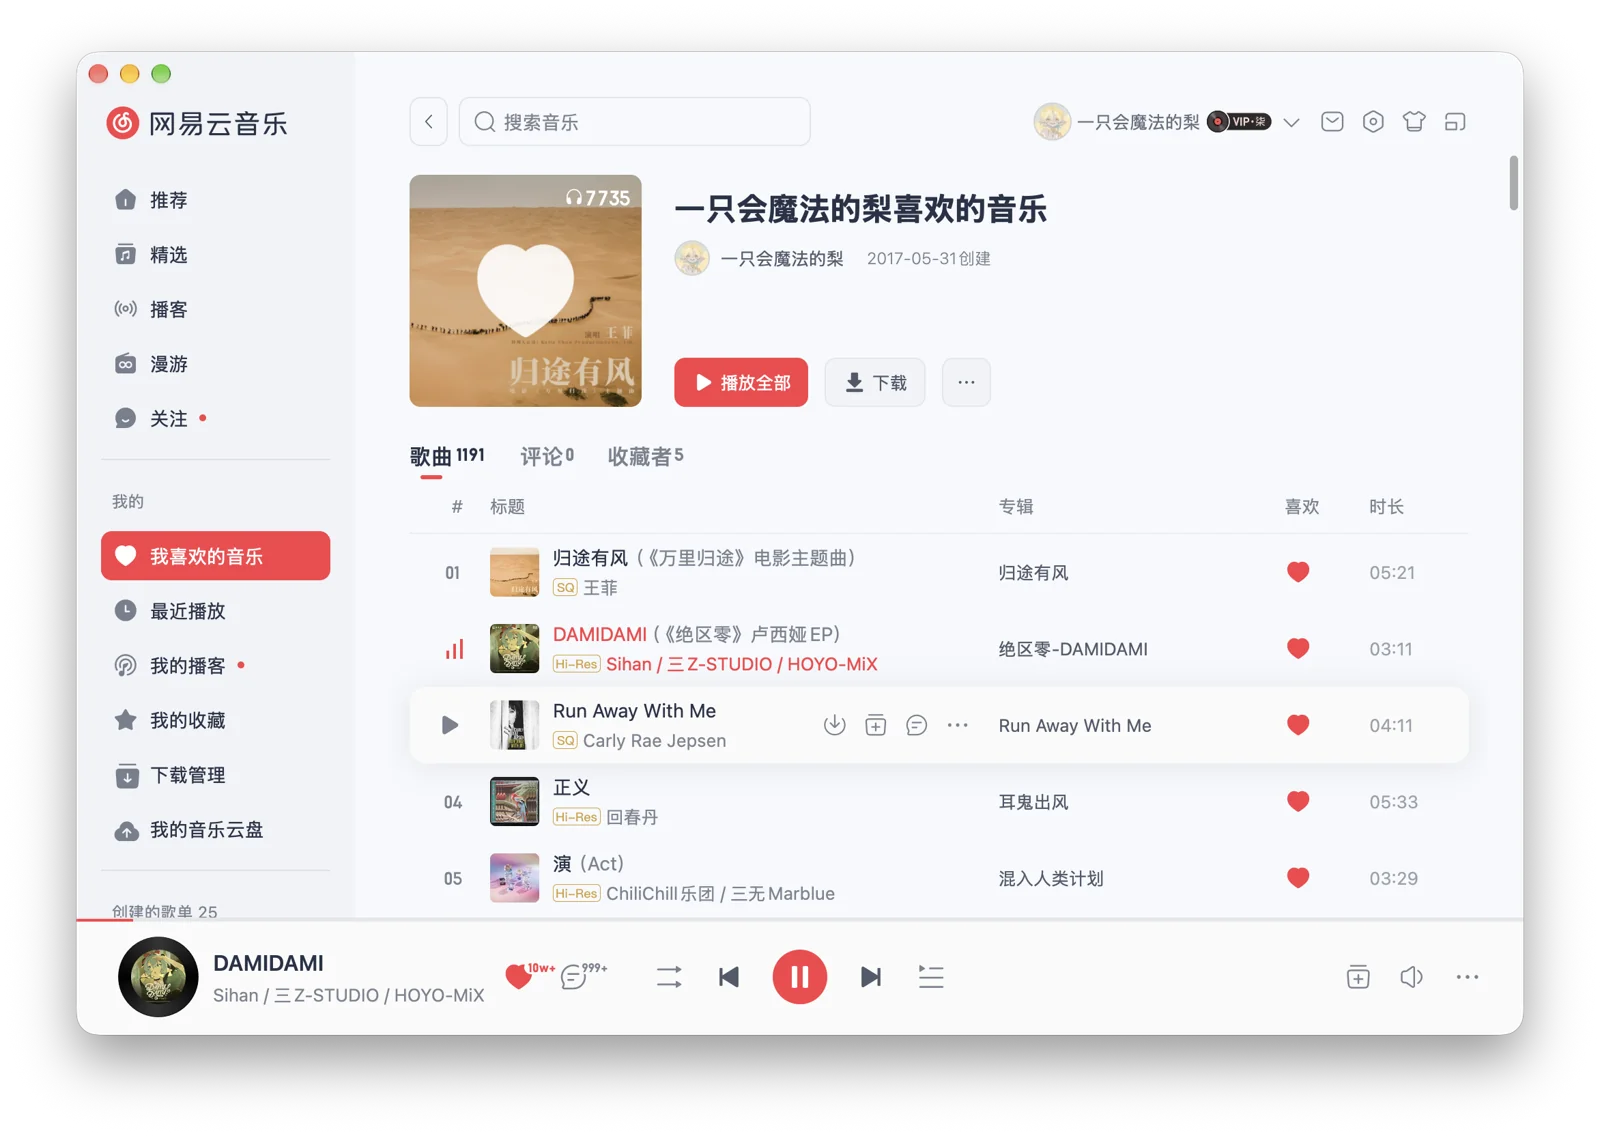
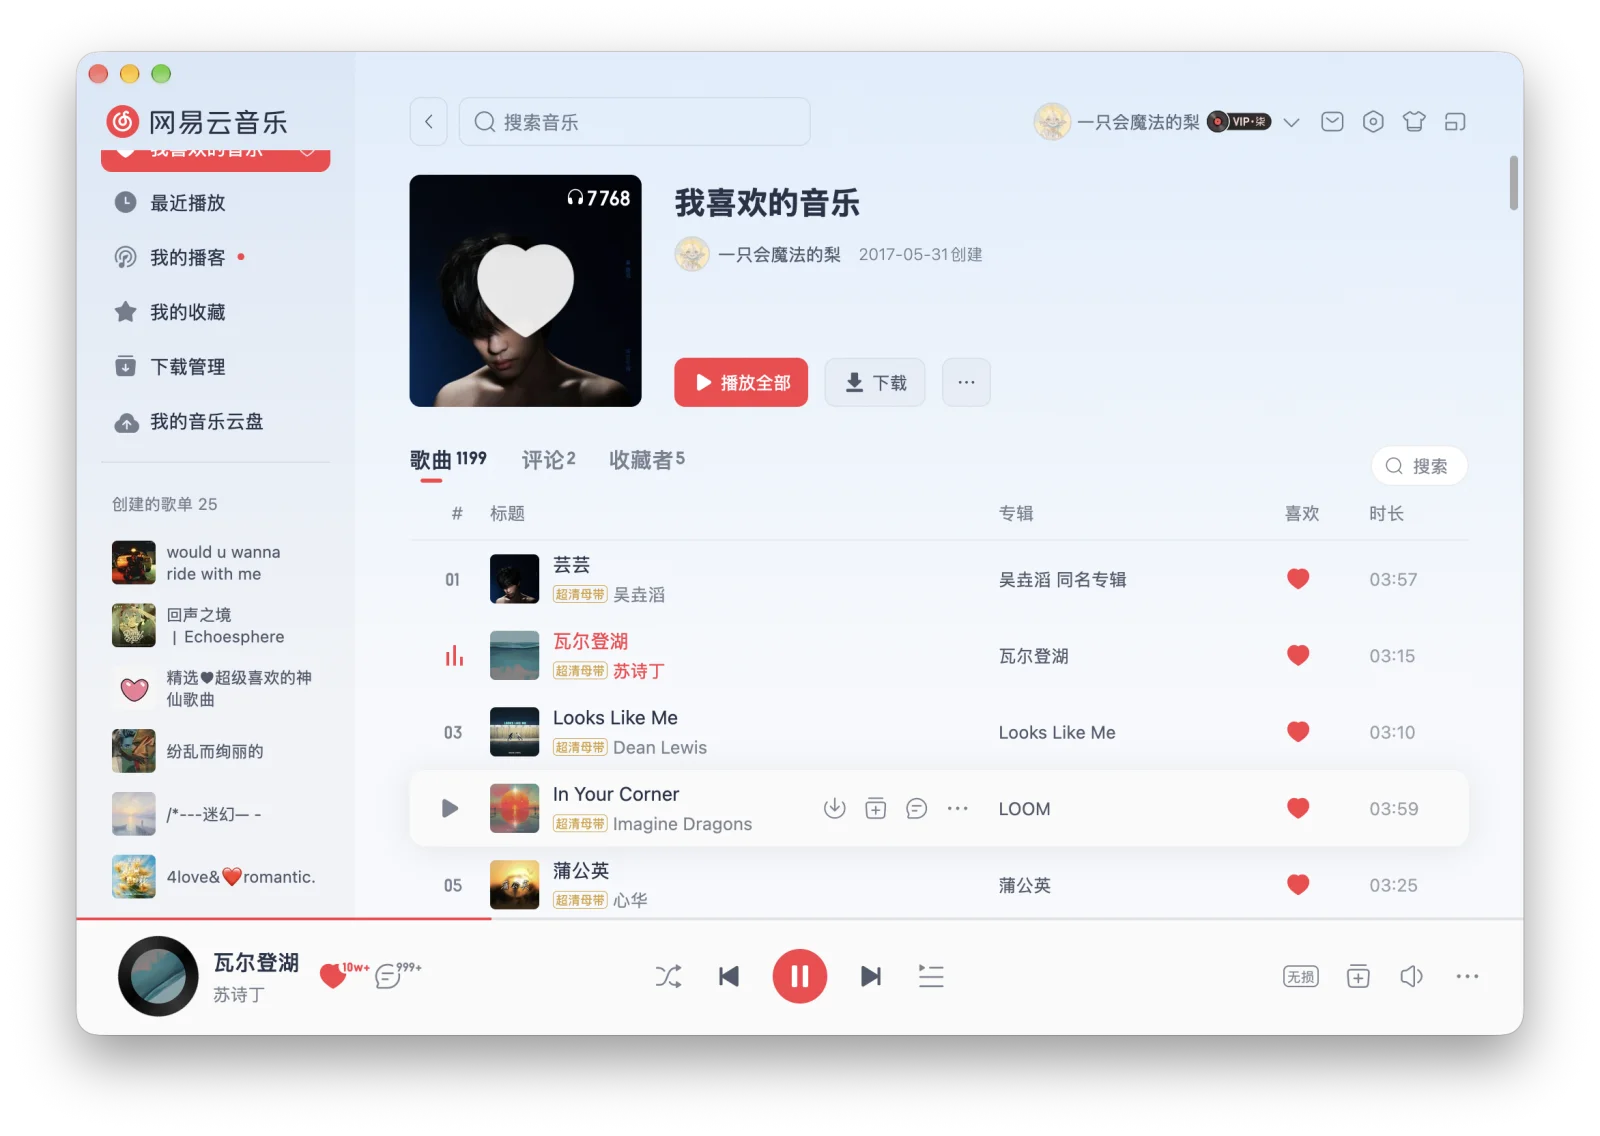
优化细节及替换图片

diff --git a/src/app.scss b/src/app.scss
@@ -93,19 +93,24 @@ section[id] { scroll-margin-top: 110px; }
   .title-first { display: flex; align-items: center; gap: 20px; }
   .title-first i { color: #e44030; font: normal .8em Arial, sans-serif; }
   .title-second { display: block; margin-top: 12px; font-size: .68em; letter-spacing: 0; white-space: nowrap; }
-  .title-outline { color: transparent; -webkit-text-stroke: 1.5px #262622; }
+  .title-outline { position: relative; display: inline-block; color: transparent; -webkit-text-stroke: 1.5px #262622; }
+  .title-compass { position: absolute; width: 150%; height: 180%; left: -25%; top: -45%; overflow: visible; pointer-events: none; stroke: #262622; stroke-width: 1.3; stroke-linecap: round; stroke-linejoin: round; }
+  .compass-arc { stroke: #e44030; stroke-dasharray: 100; animation: compass-draw 1.8s ease-out both; }
+  .compass-tool { transform-origin: 126px 16px; animation: compass-turn 1.8s ease-out both; }
   .hero-intro { margin-top: 35px; color: #50544f; font-size: 16px; line-height: 1.95; }
   .hero-actions { display: flex; flex-wrap: wrap; gap: 12px; margin-top: 27px; }
 
 }
+@keyframes compass-draw { from { stroke-dashoffset: 100; } to { stroke-dashoffset: 0; } }
+@keyframes compass-turn { from { transform: rotate(-18deg); opacity: 0; } to { transform: rotate(0); opacity: 1; } }
 .play-strip { display: flex; align-items: center; justify-content: space-around; gap: 30px; padding: 19px 30px; background: #244ad5; color: #fff; font-size: clamp(15px, 1.8vw, 23px); transform: skewY(-2deg); margin: 15px 0 65px; overflow: hidden; }
 .play-strip span, .play-strip i { flex-shrink: 0; }
 .play-strip i { font-style: normal; color: #f1c731; font-size: 28px; transition: transform .3s; }
 .play-strip:hover i { transform: rotate(90deg); }
-.geometry-section { display: grid; grid-template-columns: .9fr 1fr; align-items: center; gap: 80px; padding: 35px 0 100px; }
+.geometry-section { display: grid; grid-template-columns: .9fr 1fr; align-items: center; gap: 80px; padding: 60px 0 120px; border-top: 1px solid var(--line); }
 .geometry-copy h2 { font-size: clamp(38px, 4.6vw, 62px); line-height: 1.3; font-weight: 750; }
 .geometry-copy p { margin-top: 25px; color: var(--muted); font-size: 15px; line-height: 1.9; }
-.geometry-flower { display: block; width: fit-content; margin: 25px 0 0 20%; color: #e44030; font: 130px Arial, sans-serif; transition: transform .6s; }
+.geometry-flower { display: block; width: fit-content; margin: 35px 0 0 20%; color: #e44030; font: 130px Arial, sans-serif; transition: transform .6s; }
 .geometry-flower:hover { transform: rotate(180deg); }
 .button {
   display: inline-flex;
@@ -131,42 +136,54 @@ section[id] { scroll-margin-top: 110px; }
   > p { margin-top: 18px; color: var(--muted); font-size: 15px; line-height: 1.9; }
   &.centered { text-align: center; margin-bottom: 56px; }
 }
-.works { padding-top: 30px; padding-bottom: 100px; }
+.works { padding-top: 42px; padding-bottom: 120px; }
 .works-heading { display: flex; align-items: end; justify-content: space-between; gap: 30px; }
-.works-heading h2 { font-size: clamp(38px, 4.6vw, 62px); line-height: 1.15; font-weight: 750; }
-.works-heading > p { max-width: 300px; padding-bottom: 6px; }
+.works-heading h2 { font-size: 60px; line-height: 1.2; font-weight: 750; }
+.works-heading > p { max-width: 300px; padding: 0 0 6px 20px; border-left: 3px solid #e44030; }
 
-.feature-grid { display: grid; grid-template-columns: 1.15fr .85fr; align-items: start; gap: 42px; }
+.feature-grid { display: grid; grid-template-columns: 1fr 1fr; align-items: stretch; gap: 24px; }
 .feature-card {
   display: flex;
   flex-direction: column;
   min-width: 0;
   overflow: hidden;
-  border: 1px solid var(--line);
+  border: 0;
   background: var(--panel);
-  transition: box-shadow .25s;
-  &:hover { box-shadow: 8px 8px 0 #262622; }
+  transition: background .25s;
   &.music-feature {
     grid-column: 1 / -1;
     display: grid;
-    grid-template-columns: .85fr 1.15fr;
+    grid-template-columns: .8fr 1.2fr;
     align-items: center;
     background: #f1c731;
-    .card-copy { padding: 40px 44px 32px; }
-    .card-visual { margin: 35px 0 35px 10px; }
+    .card-copy { padding: 48px; }
+    .card-visual { margin: 32px 32px 32px 0; }
     .card-description { max-width: 640px; }
   }
   .card-copy { position: relative; padding: 34px 34px 30px; }
   h3 { display: flex; align-items: baseline; flex-wrap: wrap; gap: 8px 16px; margin-top: 12px; font-size: 27px; line-height: 1.5; }
-  h3 > span { color: #7d7268; font-size: 15px; font-weight: 400; }
+  h3 > span { color: #535d58; font-size: 15px; font-weight: 400; }
   .card-description { margin-top: 13px; color: #62625b; font-size: 14px; line-height: 1.85; }
   .card-link { margin-top: 21px; }
   .card-visual { margin: auto 24px 0; overflow: hidden; }
   img { display: block; width: 100%; aspect-ratio: 1.6; object-fit: cover; transition: transform .3s; }
   &:hover img { transform: translate(var(--mx, 0px), var(--my, 0px)) scale(1.045); }
 }
-.agent-feature { transform: rotate(-2deg); background: #e2e8f7; }
-.launcher-feature { margin-top: 90px; transform: rotate(2deg); background: #e3e8d4; }
+.agent-feature { background: #dce6e0; }
+.launcher-feature { background: #dce5f5; }
+.feature-card.agent-feature, .feature-card.launcher-feature {
+  grid-column: 1 / -1;
+  display: grid;
+  grid-template-columns: .8fr 1.2fr;
+  align-items: center;
+  .card-copy { padding: 48px; }
+  .card-visual { min-width: 0; margin: 32px 32px 32px 0; }
+}
+.feature-card.launcher-feature {
+  grid-template-columns: 1.2fr .8fr;
+  .card-copy { order: 1; }
+  .card-visual { margin: 32px 0 32px 32px; }
+}
 // The project illustrations are decorative; the surrounding card is the only link.
 .music-feature {
   .card-visual {
@@ -197,14 +214,15 @@ section[id] { scroll-margin-top: 110px; }
 .music-feature:hover .vinyl { transform: rotate(130deg); }
 .launcher-feature .card-visual {
   position: relative;
-  padding: 32px 12px 0;
-  background: #cad8cc;
-  > img { aspect-ratio: 1.6; object-fit: cover; object-position: top;  }
+  padding: 20px;
+  background: #b9cfee;
+  > img { aspect-ratio: auto; object-fit: contain; box-shadow: 0 12px 28px rgb(31 74 133 / 15%); }
 }
+.launcher-feature:hover img { transform: none; }
 .agent-art {
   aspect-ratio: 1.6;
   padding: 22px 18px 0;
-  background: #ded1b8;
+  background: #b9cec5;
   font-family: "Alimama Fangyuan", sans-serif;
   .workspace-bar { display: flex; align-items: center; gap: 8px; padding: 12px 15px; background: #ede5d7; font-size: 13px; border-bottom: 1px solid #d8cdbb; }
   .workspace-mark { font: 20px Georgia, serif; color: #a35b42; }
@@ -239,20 +257,20 @@ section[id] { scroll-margin-top: 110px; }
 
 .content-label { color: #56564f; font-size: 12px; line-height: 1.6; }
 .card-link { display: inline-flex; align-items: center; gap: 14px; color: #244ad5; font-size: 13px; line-height: 1.5; }
-.systems { padding-bottom: 100px; }
-.experiment-grid { display: grid; grid-template-columns: 1fr 1.12fr .9fr; align-items: start; gap: 25px; }
-.experiment:nth-child(2) { margin-top: 50px; }
-.experiment:nth-child(3) { margin-top: 105px; }
+.systems { padding: 60px 0 120px; border-top: 1px solid var(--line); }
+.experiment-grid { display: grid; grid-template-columns: repeat(3, minmax(0, 1fr)); align-items: start; gap: 28px; }
+.experiment:nth-child(2) { margin-top: 55px; }
+.experiment:nth-child(3) { margin-top: 110px; }
 .experiment {
   display: block;
   overflow: hidden;
-  border: 1px solid var(--line);
-  background: #faf8ed;
-  transition: background .2s, border-color .2s;
-  &:hover { background: #f2e9dc; border-color: rgb(45 43 47 / 22%); }
+  border-top: 2px solid #262622;
+  background: transparent;
+  transition: border-color .2s;
+  &:hover { border-color: #e44030; }
   h3 { display: flex; align-items: center; justify-content: space-between; gap: 16px; margin-top: 15px; font-size: 23px; }
   h3 span { color: #886758; font-size: 19px; }
-  .experiment-copy { padding: 25px; }
+  .experiment-copy { padding: 22px 0 0; }
   .experiment-image { display: block; width: 100%; aspect-ratio: 1.65; object-fit: cover; transition: transform .3s; }
   &:hover .experiment-image { transform: translate(var(--mx, 0px), var(--my, 0px)) scale(1.06); }
   &:hover h3 span { transform: rotate(45deg); }
@@ -263,7 +281,7 @@ section[id] { scroll-margin-top: 110px; }
   display: grid;
   grid-template-columns: .8fr 1.2fr;
   align-items: stretch;
-  background: #faf8ed;
+  background: #e2ece7;
   .about-profile { position: relative; overflow: hidden; padding: 52px 46px 100px; background: #244ad5; color: #fff; }
   .portrait-frame { position: relative; width: min(240px, 100%); margin-bottom: 30px; padding: 12px; background: #f1eedf; }
   .portrait-frame::after { content: ""; position: absolute; width: 65px; height: 18px; background: #e44030; top: -9px; right: -16px; }
@@ -297,17 +315,16 @@ section[id] { scroll-margin-top: 110px; }
   dt { color: #62625b; }
   dd { color: #262622; margin: 0; }
 }
-.notes { display: grid; grid-template-columns: .8fr 1.2fr; align-items: center; gap: 55px; padding-top: 100px; padding-bottom: 65px; }
+.notes { display: grid; grid-template-columns: .8fr 1.2fr; align-items: center; gap: 55px; padding-top: 120px; padding-bottom: 80px; }
 .note-entry {
   display: block;
   position: relative;
   padding: 38px 40px;
-  transform: rotate(-2deg);
-  box-shadow: 9px 9px 0 #244ad5;
-  background: #faf8ed;
-  border: 1px solid var(--line);
+  background: #dce5f5;
+  border: 0;
+  border-left: 6px solid #244ad5;
   transition: border-color .2s, background .2s;
-  &:hover { background: #f1e5d5; border-color: rgb(45 43 47 / 22%); }
+  &:hover { background: #cedbf2; }
   .note-meta { display: flex; flex-wrap: wrap; gap: 16px; justify-content: space-between; color: #786c61; font-size: 12px; }
   h3 { margin-top: 25px; font-size: 28px; line-height: 1.6; }
   > p { margin-top: 16px; color: var(--muted); font-size: 14px; line-height: 1.8; }
@@ -319,13 +336,14 @@ section[id] { scroll-margin-top: 110px; }
   text-align: center;
   padding-top: 130px;
   padding-bottom: 135px;
+  border-top: 1px solid var(--line);
   .closing-glow {
     position: absolute;
     z-index: -1;
     inset: 0 -20px;
     &::before, &::after { content: ""; position: absolute; }
-    &::before { width: 170px; aspect-ratio: 1; left: 4%; top: 34%; border-radius: 50%; background: #f1c731; }
-    &::after { width: 90px; height: 130px; right: 8%; top: 24%; background: #e44030; transform: rotate(12deg); }
+    &::before { width: 170px; aspect-ratio: 1; left: 4%; top: 34%; border: 2px solid #244ad5; border-radius: 50%; }
+    &::after { width: 90px; height: 90px; right: 8%; top: 24%; border: 2px solid #e44030; transform: rotate(45deg); }
     pointer-events: none;
   }
   h2 { font-size: clamp(30px, 3.2vw, 44px); line-height: 1.6; letter-spacing: -.025em; }
@@ -401,6 +419,7 @@ section[id] { scroll-margin-top: 110px; }
   .feature-card .card-copy { padding: 28px; }
   .feature-card.music-feature .card-copy { padding: 32px 28px 28px; }
   .feature-card.music-feature .card-visual { margin-inline: 28px; }
+  .feature-card.agent-feature .card-copy, .feature-card.launcher-feature .card-copy { padding: 28px; }
   .feature-card h3 { font-size: 24px; }
   .feature-card h3 > span { font-size: 13px; }
   .experiment-grid { grid-template-columns: repeat(2, minmax(0, 1fr)); }
@@ -462,7 +481,6 @@ section[id] { scroll-margin-top: 110px; }
   .play-strip i { font-size: 20px; }
   .works-heading { display: block; }
   .works-heading h2 { font-size: 38px; }
-  .launcher-feature { margin-top: 12px; }
   .agent-feature, .launcher-feature { transform: none; }
   .experiment:nth-child(2), .experiment:nth-child(3) { margin-top: 0; }
   .geometry-section { grid-template-columns: 1fr; gap: 32px; padding-block: 0 75px; }
@@ -484,17 +502,22 @@ section[id] { scroll-margin-top: 110px; }
     h3 { font-size: 24px; gap: 6px 12px; }
     .card-description { font-size: 13px; }
   }
+  .feature-card.agent-feature, .feature-card.launcher-feature {
+    grid-template-columns: minmax(0, 1fr);
+    .card-copy { order: 0; padding: 26px 24px; }
+    .card-visual { margin: 0 16px 16px; }
+  }
   .systems { padding-bottom: 85px; }
   .experiment-grid { grid-template-columns: minmax(0, 1fr); gap: 20px; }
   .music-feature .card-visual { padding: 24px 12% 0 12px; }
   .music-feature .vinyl > span { font-size: 9px; }
-  .launcher-feature .card-visual { padding: 24px 12px 0; }
+  .launcher-feature .card-visual { padding: 12px; }
   .agent-art { padding: 16px 12px 0; }
   .agent-art .workspace-files { padding-inline: 8px; font-size: 8px; }
   .agent-art .workspace-conversation { padding: 20px 12px; }
   .agent-art .agent-prompt { font-size: 15px; }
   .hermes-art { aspect-ratio: 1.65; }
-  .experiment .experiment-copy { padding: 24px; }
+  .experiment .experiment-copy { padding: 20px 0 0; }
   .experiment h3 { font-size: 21px; }
   .experiment .experiment-description { font-size: 13px; margin-top: 13px; }
   .about { grid-template-columns: minmax(0, 1fr); }

diff --git a/src/components/GeometryPlayground.svelte b/src/components/GeometryPlayground.svelte
@@ -69,7 +69,7 @@
 
 <style lang="scss">
   .geometry-playground { width: 100%; }
-  .geometry-board { position: relative; width: 100%; aspect-ratio: 1; background-image: radial-gradient(#28282435 1px, transparent 1px); background-size: 24px 24px; }
+  .geometry-board { position: relative; width: 100%; aspect-ratio: 1; background-color: #dce8e3; background-image: radial-gradient(#28282435 1px, transparent 1px); background-size: 24px 24px; }
   .board-axis { position: absolute; background: #28282425; pointer-events: none; }
   .axis-x { width: 100%; height: 1px; top: 50%; }
   .axis-y { height: 100%; width: 1px; left: 50%; }
@@ -80,7 +80,7 @@
   .disc span { border-radius: 50%; background: #e44030; }
   .disc span::after { content: ''; display: block; width: 50%; height: 100%; border-radius: 100% 0 0 100% / 50% 0 0 50%; background: #bb3025; }
   .arch span { border-radius: 50% 50% 0 0; background: #244ad5; }
-  .arch span::after { content: ''; position: absolute; inset: 38% 30% 0; border-radius: 50% 50% 0 0; background: #f1eedf; }
+  .arch span::after { content: ''; position: absolute; inset: 38% 30% 0; border-radius: 50% 50% 0 0; background: #dce8e3; }
   .triangle span { background: #f1c731; clip-path: polygon(50% 0, 100% 100%, 0 100%); }
   .stripes span { background: repeating-linear-gradient(0deg, #262622 0 8px, transparent 8px 18px); }
   .ring span { border: 22px solid #262622; border-radius: 50%; }

diff --git a/src/App.svelte b/src/App.svelte
@@ -204,7 +204,7 @@
     <section class="hero" aria-labelledby="hero-title">
       <div class="hero-copy">
         <p class="hero-greeting">你好，我是 Perry</p>
-        <h1 id="hero-title"><span class="title-first">好奇心，<i aria-hidden="true">✳</i></span><span class="title-second">不必<span class="title-outline">循规</span>蹈矩。</span></h1>
+        <h1 id="hero-title"><span class="title-first">好奇心，<i aria-hidden="true">✳</i></span><span class="title-second">不必<span class="title-outline">循规<svg class="title-compass" viewBox="0 0 180 120" fill="none" aria-hidden="true"><path class="compass-arc" d="M 17 93 Q 86 126 166 84" pathLength="100" /><g class="compass-tool"><path d="M 126 16 L 111 61 M 126 16 L 151 57 M 117 43 Q 130 50 143 42 M 111 61 L 108 70 M 151 57 L 156 65" /><circle cx="126" cy="16" r="4" /></g></svg></span>蹈矩。</span></h1>
         <p class="hero-intro">
           写代码，做音乐，也创造一些不一样的互动体验。<br class="desktop-break" />
           在技术与表达之间，把想法一点点变成现实。

diff --git a/README.md b/README.md
@@ -37,6 +37,6 @@ wasm-pack build --target web
 Project descriptions were checked against the public repositories on 2026-11-03.
 The showcase is curated in `src/App.svelte`; it does not fetch GitHub at runtime.
 
-- `cover_netease_gpui.webp`: [netease-music-gpui README screenshot](https://github.com/AMagicPear/netease-music-gpui/blob/main/docs/images/screenshot.png), resized to WebP.
-- `cover_pcl_proto.webp`: [PCL.Proto public website](https://www.amagicpear.top/PCL.Proto/), launcher preview captured on 2026-11-03.
+- `cover_netease_gpui.webp`: user-provided application screenshot, resized to WebP.
+- `cover_pcl_proto.webp`: user-provided launcher screenshot, converted to WebP.
 - The pichamber artwork is a workflow illustration, not an application screenshot. Its description follows the [public README](https://github.com/AMagicPear/pichamber).
